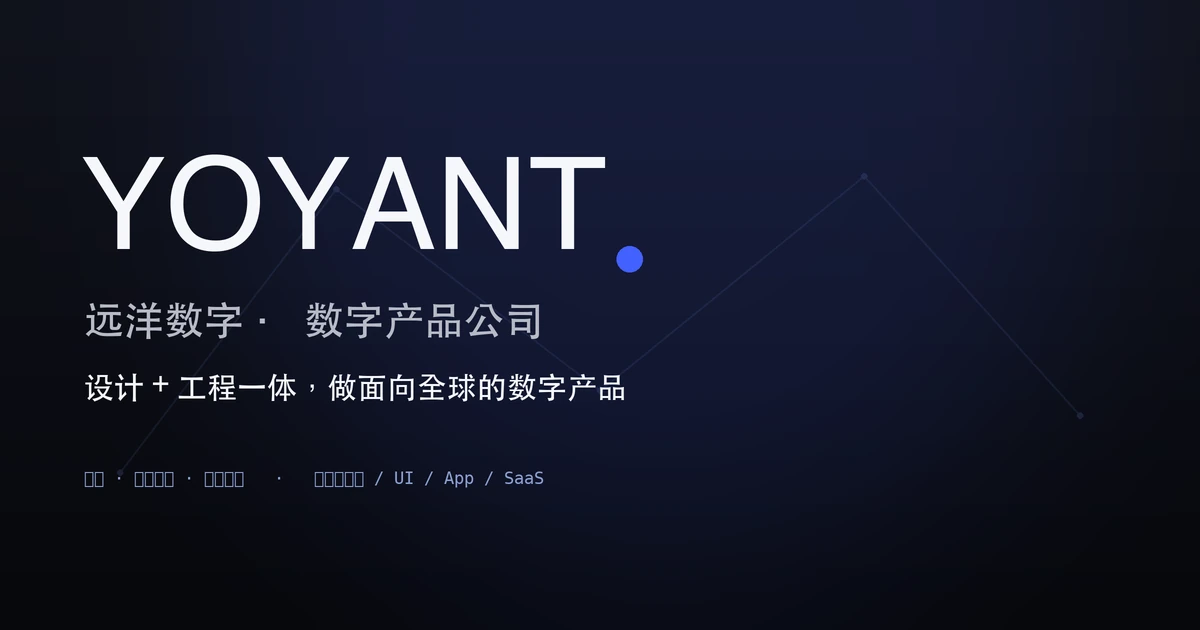
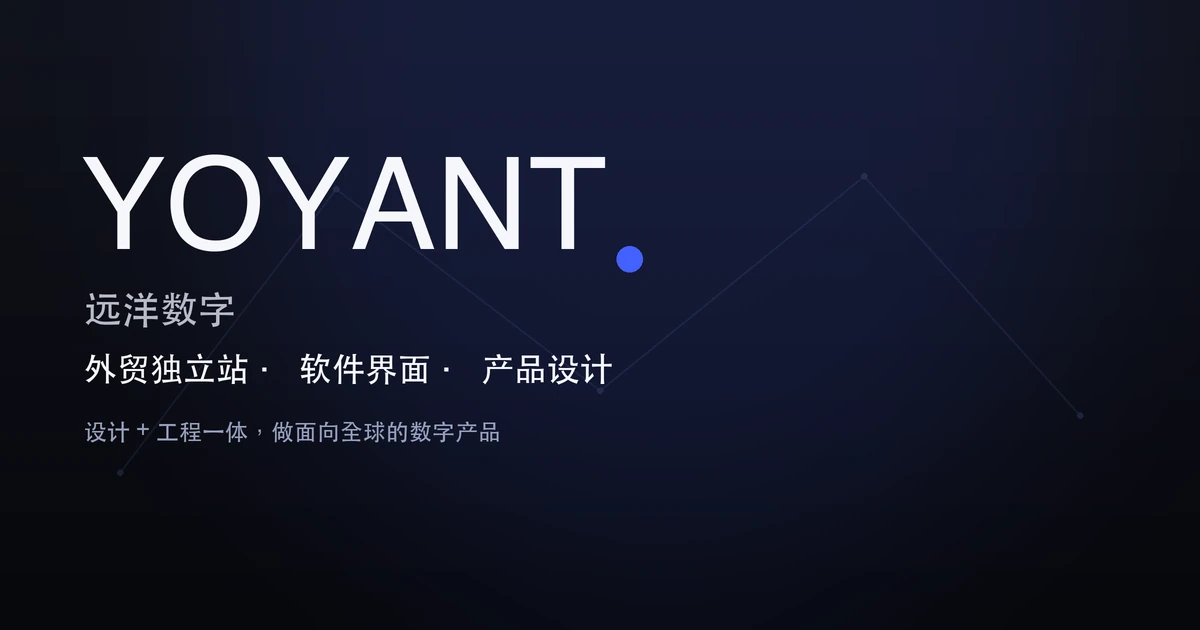
feat(brand): OG卡与页脚同步"外贸独立站·软件界面·产品设计"描述
- og-brand.webp 重做:描述词显眼(ink白),标语弱化,分享卡一眼懂做什么
- 页脚品牌注入加描述行(覆盖所有简版页脚,如案例/文章页)

diff --git a/assets/brand-logo.js b/assets/brand-logo.js
@@ -8,7 +8,9 @@
     '<span class="brand-main"><span class="wm">' + EN + '<span class="dot">.</span></span>' +
     '<span class="cn">' + CN + '</span></span>' +
     '<span class="brand-desc">' + DESC + '</span>';
-  var footHTML = EN + '<span style="color:var(--accent)">.</span> ' + CN;
+  var footHTML =
+    '<span class="fwm">' + EN + '<span style="color:var(--accent)">.</span> ' + CN + '</span>' +
+    '<span class="fdesc">' + DESC + '</span>';
 
   // descriptor 需要把 .brand 从横排改成竖排叠一行小字（注入 CSS，后加载覆盖各页内联样式）
   var css =
@@ -16,7 +18,10 @@
     '.brand-main{display:flex;align-items:baseline;gap:8px}' +
     '.brand-desc{font-family:var(--mono,ui-monospace,monospace);font-size:9.5px;letter-spacing:.03em;' +
     'color:var(--muted,#787C8B);line-height:1;white-space:nowrap}' +
-    '@media(max-width:560px){.brand-desc{display:none}}';
+    '@media(max-width:560px){.brand-desc{display:none}}' +
+    '[data-brand-foot]{display:inline-flex;flex-direction:column;gap:4px}' +
+    '.fdesc{font-family:var(--mono,ui-monospace,monospace);font-size:10px;letter-spacing:.03em;' +
+    'color:var(--muted,#787C8B);text-transform:none;font-weight:400;line-height:1}';
   var st = document.createElement('style');
   st.id = 'brand-logo-css';
   st.textContent = css;
